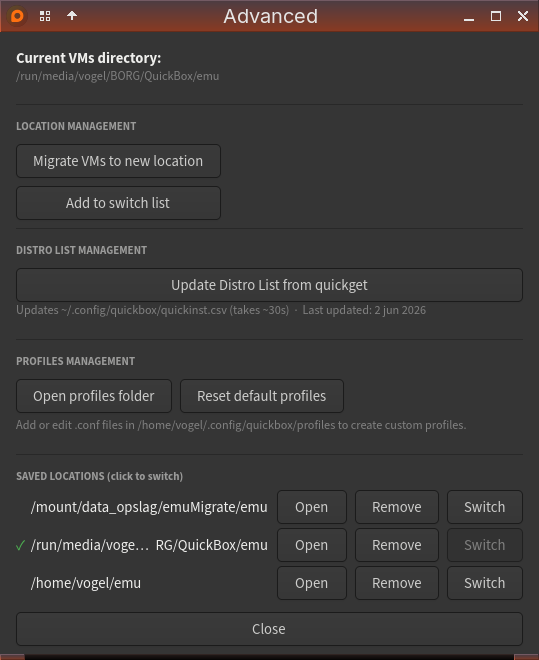
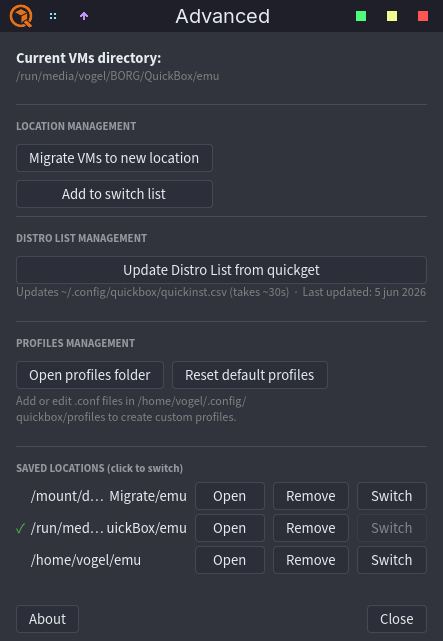
Updated previews

diff --git a/README.md b/README.md
@@ -18,6 +18,8 @@ A GTK4 GUI for managing QEMU virtual machines via [quickemu](https://github.com/
 
 ![quickbox](images/running.png)
 
+![quickbox](images/running02.png)
+
 ![quickbox](images/advanced.png)
 
 ## Features